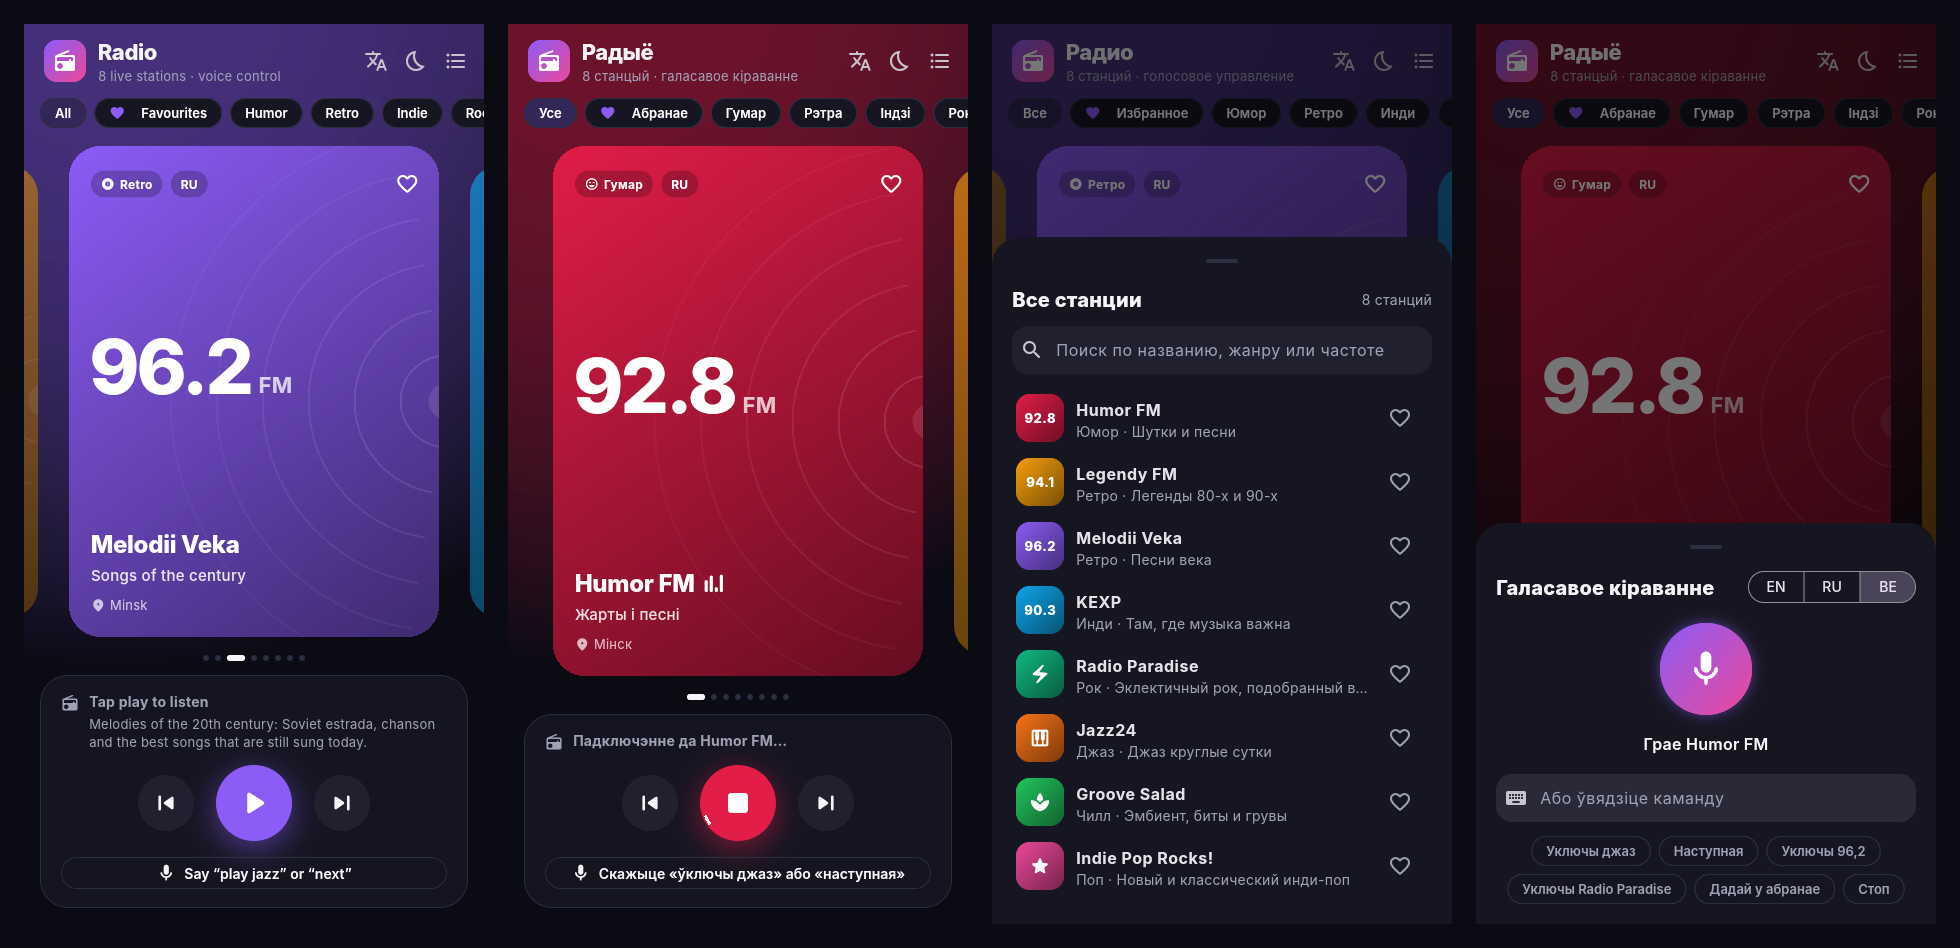
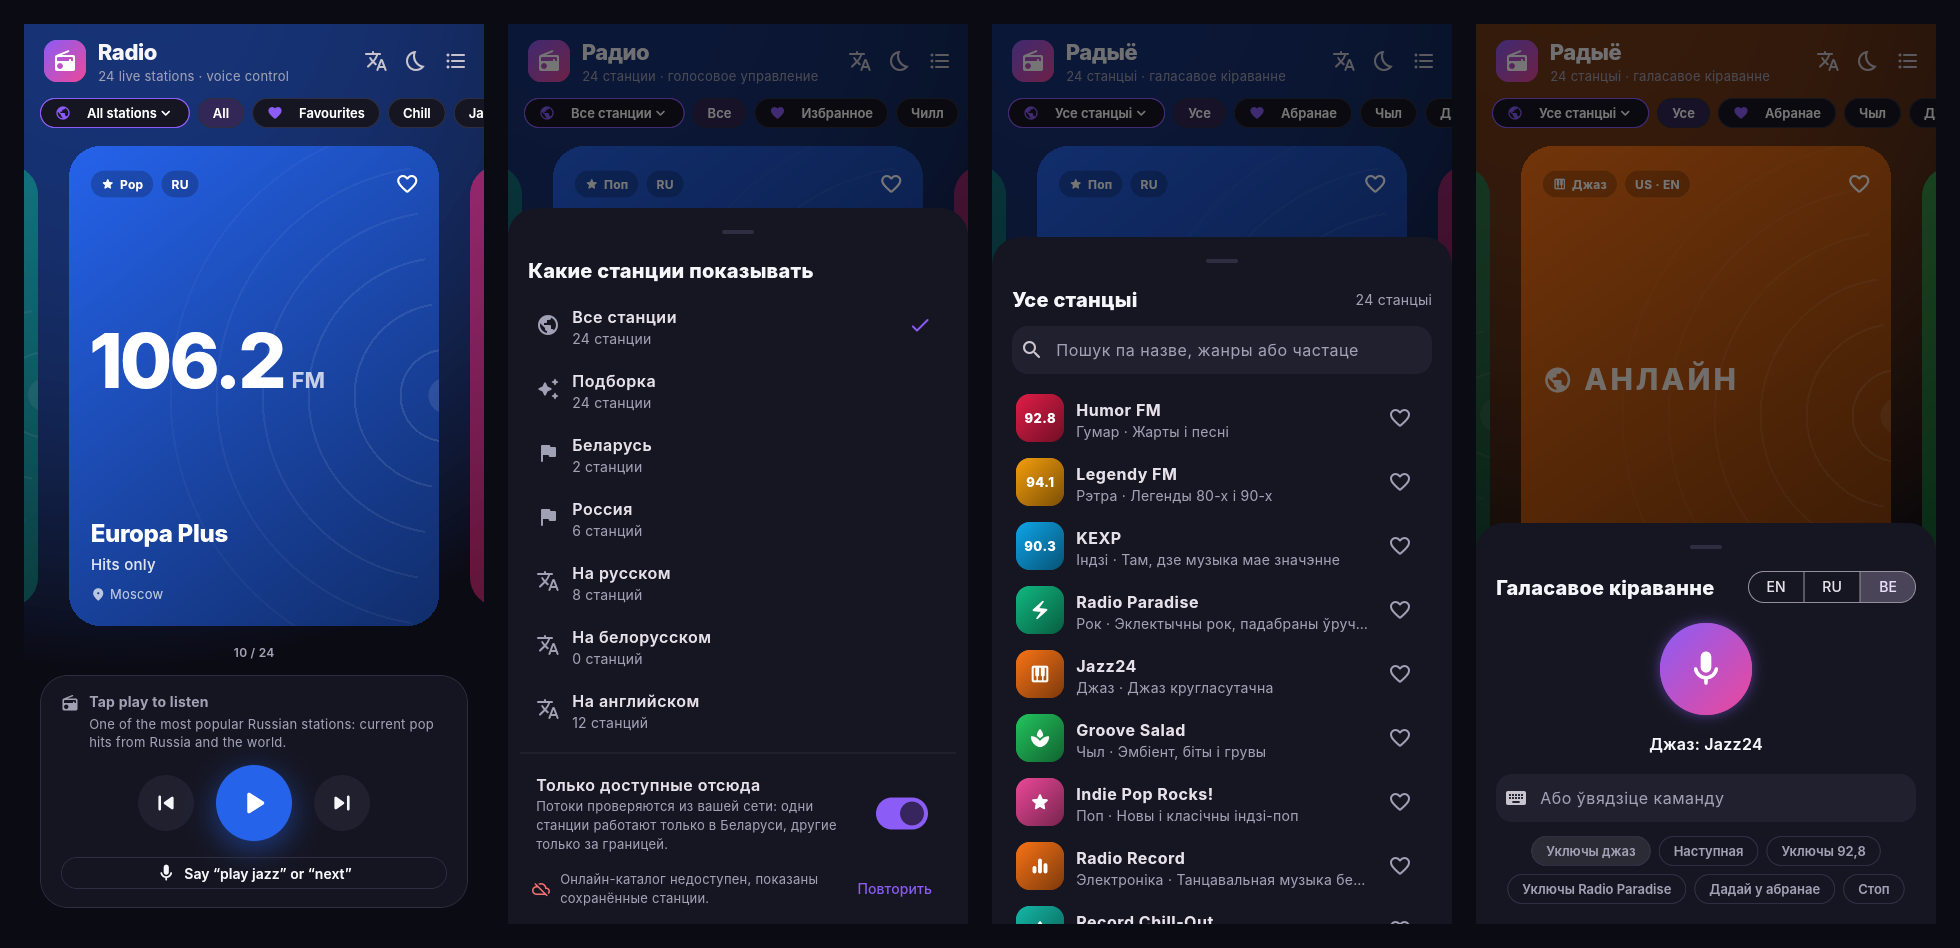
Add a stream check tool, update README and screenshots

diff --git a/tool/check_streams.dart b/tool/check_streams.dart
@@ -1,0 +1,68 @@
+// Checks every stream of the bundled station list from this computer.
+//
+//   dart run tool/check_streams.dart            # assets/stations.json
+//   dart run tool/check_streams.dart my.json    # another list in the same format
+//
+// Prints one line per station and exits with code 1 when a stream fails.
+// Run it from the network you care about: some stations only work from
+// Belarus, others only from abroad.
+import 'dart:async';
+import 'dart:convert';
+import 'dart:io';
+
+Future<void> main(List<String> args) async {
+  final file = File(args.isEmpty ? 'assets/stations.json' : args.first);
+  final json = jsonDecode(await file.readAsString()) as Map<String, Object?>;
+  final stations = (json['stations']! as List<Object?>)
+      .cast<Map<String, Object?>>();
+
+  final client = HttpClient()..connectionTimeout = const Duration(seconds: 8);
+  var failed = 0;
+  for (final station in stations) {
+    final name = station['name']! as String;
+    final url = station['streamUrl']! as String;
+    final result = await _check(client, url);
+    if (!result.ok) failed++;
+    stdout.writeln(
+      '${result.ok ? 'OK  ' : 'FAIL'}  ${name.padRight(26)} ${result.detail.padRight(28)} $url',
+    );
+  }
+  client.close(force: true);
+  stdout.writeln(
+    '\n${stations.length - failed} of ${stations.length} streams work from this network.',
+  );
+  exitCode = failed == 0 ? 0 : 1;
+}
+
+Future<({bool ok, String detail})> _check(HttpClient client, String url) async {
+  try {
+    final request = await client
+        .getUrl(Uri.parse(url))
+        .timeout(const Duration(seconds: 8));
+    request.headers.set('Icy-MetaData', '0');
+    final response = await request.close().timeout(const Duration(seconds: 8));
+    final type = response.headers.contentType?.mimeType ?? '?';
+    if (response.statusCode != 200) {
+      unawaited(response.drain<void>().catchError((Object _) {}));
+      return (ok: false, detail: 'HTTP ${response.statusCode}');
+    }
+    var bytes = 0;
+    await for (final chunk in response.timeout(const Duration(seconds: 8))) {
+      bytes += chunk.length;
+      if (bytes >= 4096) break;
+    }
+    final audio =
+        type.startsWith('audio/') ||
+        type.contains('ogg') ||
+        type.contains('mpegurl') ||
+        type.contains('octet-stream') ||
+        type.contains('aac') ||
+        type.contains('mpeg');
+    return (ok: audio && bytes > 0, detail: '$type, ${bytes}B');
+  } on TimeoutException {
+    return (ok: false, detail: 'timeout');
+  } on Object catch (error) {
+    final text = error.toString().split('\n').first;
+    return (ok: false, detail: text.length > 28 ? text.substring(0, 28) : text);
+  }
+}

diff --git a/README.md b/README.md
@@ -19,23 +19,31 @@
 
 ---
 
-Radio plays live stations from Minsk and around the world. Swipe through the stations, tap play, or just say
-*“play jazz”*, *“next”*, *“включи ретро”* or *“уключы 96,2”*. Speech is recognised on the device and turned into
-commands by a small parser, so there is no cloud assistant, account or API key. The interface is translated into
-English, Russian and Belarusian.
+Radio plays hundreds of live stations from Belarus, Russia and around the world: 24 hand-picked ones are built in, and
+the rest come from the open [Radio Browser](https://www.radio-browser.info) directory. Show all of them or only
+Belarusian, Russian-language or Belarusian-language stations, swipe, tap play, or just say *“play jazz”*, *“next”*,
+*“включи ретро”* or *“уключы 92,8”*. Speech is recognised on the device and turned into commands by a small parser,
+so there is no cloud assistant, account or API key. The interface is translated into English, Russian and Belarusian.
+
+Some stations only work from Belarus and others only from abroad, so the app checks every stream **from the
+listener's own network** and hides the ones that do not open.
 
 ## 📸 Screenshots
 
 ![Radio in English, Belarusian and Russian](docs/screenshots/overview.png)
 
-<sub>The Linux build, from left to right: the station carousel (English), playback and the station list (Belarusian, Russian), a voice command (Belarusian).</sub>
+<sub>The Linux build, from left to right: the station carousel (English), choosing which stations to show (Russian), the station list and a voice command (Belarusian).</sub>
 
 ## ✨ Features
 
 | | |
 |---|---|
-| 📻 **Station carousel** | Large cards with the frequency, genre and city; the background takes the colour of the selected station |
-| 🎙 **Voice control** | Play, stop, next, previous, a station by frequency (*“96.2”*, *“96 point 2”*, *“96 и 2”*) or name, a genre, *add to favourites*. English, Russian and Belarusian phrases |
+| 📻 **Station carousel** | Large cards with the frequency or logo, genre, country and language; the background takes the colour of the selected station |
+| 🌐 **Hundreds of stations** | 24 hand-picked stations plus Belarusian, Russian, Russian-language, Belarusian-language and the most popular world stations from Radio Browser, cached for offline start and refreshed twice a day |
+| 🗂 **Which stations to show** | All, featured, Belarus, Russia, in Russian, in Belarusian, in English. The choice is remembered |
+| 🛰 **Works from your network** | Every stream is opened from the device in the background; geo-blocked or dead stations are hidden (or marked, if you prefer). A stream that fails while playing is marked too, and *next* skips it |
+| 🩹 **Self-healing streams** | When a built-in station moves to a new stream address, the app finds it in Radio Browser and switches over |
+| 🎙 **Voice control** | Play, stop, next, previous, a station by frequency (*“106.2”*, *“106 point 2”*, *“94 и 1”*) or name, a genre, *add to favourites*. English, Russian and Belarusian phrases |
 | ⌨ **Typed commands** | The same commands can be typed, for platforms or rooms without a microphone |
 | 🌍 **Three languages** | English, Russian, Belarusian. Follows the system language, can be switched in the app and is remembered. Station descriptions are translated too |
 | ❤ **Favourites and genres** | Filter chips for every genre and for favourites; favourites are saved on the device |
@@ -51,7 +59,7 @@ English, Russian and Belarusian.
 | Play | play, start, resume | включи, играй, давай | уключы, грай |
 | Stop | stop, pause, quiet | стоп, пауза, выключи | спыні, паўза, хопіць |
 | Next / previous | next, skip / previous, back | следующая / предыдущая, назад | наступная / папярэдняя |
-| Station | play 96.2, play Radio Paradise | включи 96,2, включи мелодии века | уключы 96 і 2 |
+| Station | play 106.2, play Radio Paradise | включи 106,2, включи наше радио | уключы 94 і 1 |
 | Genre | play jazz, something calm | включи рок, что-нибудь спокойное | уключы рэтра |
 | Favourite | add to favourites | добавь в избранное | дадай у абранае |
 
@@ -74,7 +82,8 @@ English, Russian and Belarusian.
 | State | `provider` + `ChangeNotifier` controllers; widgets only read state and call methods |
 | Audio | `just_audio`, `audio_session`, `just_audio_media_kit` on Windows and Linux |
 | Voice | `speech_to_text` and an own command parser (`VoiceCommandParser`) |
-| Storage | `shared_preferences` for favourites and the language |
+| Online catalogue | [Radio Browser API](https://api.radio-browser.info) over `http`, with server failover and a local cache |
+| Storage | `shared_preferences` for favourites, the language, the scope, stream checks and the catalogue cache |
 | Localization | `flutter_localizations` + ARB files (`gen-l10n`) for EN / RU / BE |
 | Tests | `flutter_test`: unit tests for parsing, the controller and the parser, widget tests for every screen and language |
 | CI/CD | GitHub Actions: analyze and test, then builds for all six platforms; tagged versions are published as releases. `codemagic.yaml` builds the Apple versions without a Mac |
@@ -98,6 +107,8 @@ flowchart LR
         V[VoiceInput<br/>speech_to_text]
         VP[VoiceCommandParser]
         R[StationRepository<br/>assets/stations.json]
+        OC[OnlineCatalog<br/>Radio Browser + cache]
+        SP[StreamProbe<br/>checks streams from here]
         F[FavoritesStore · LocaleStore<br/>shared_preferences]
     end
 
@@ -108,6 +119,8 @@ flowchart LR
     SH --> VP --> RC
     RC --> P
     RC --> R
+    RC --> OC
+    RC --> SP
     RC --> F
     LC --> F
 ```
@@ -120,8 +133,13 @@ flowchart LR
   Belarusian words are stored as stems, so every ending matches.
 - **The controller returns data, not text.** A voice command returns a `VoiceReply`; the UI turns it into a localized
   sentence. Errors are stored as the failed station, not as an English message.
-- **The station catalogue is data.** `assets/stations.json` holds names, frequencies, colours, stream URLs and
-  translated taglines, descriptions and cities. It is validated on load (required fields, http(s) URLs, unique ids).
+- **The station catalogue is data.** `assets/stations.json` holds names, frequencies, countries, languages, colours,
+  stream URLs and translated taglines, descriptions and cities. It is validated on load (required fields, http(s)
+  URLs, unique ids).
+- **Availability is checked where the listener is.** Radio Browser checks streams from servers outside Belarus, so a
+  Belarus-only stream looks broken there and a stream blocked in Belarus looks fine. The app therefore downloads
+  Belarusian stations without that filter and opens every stream itself (8 at a time, a few kilobytes each). Results
+  are kept for a day. If not a single stream opens, the device is offline and nothing is hidden.
 
 ### Project layout
 
@@ -173,7 +191,13 @@ flutter run                 # pick a device: Android, Windows, Linux, Chrome…
 
 ```bash
 flutter analyze
-flutter test                # 91 tests, no device needed
+flutter test                # 123 tests, no device needed
+```
+
+Check every built-in stream from your own network (prints OK / FAIL per station):
+
+```bash
+dart run tool/check_streams.dart
 ```
 
 ### Release builds
